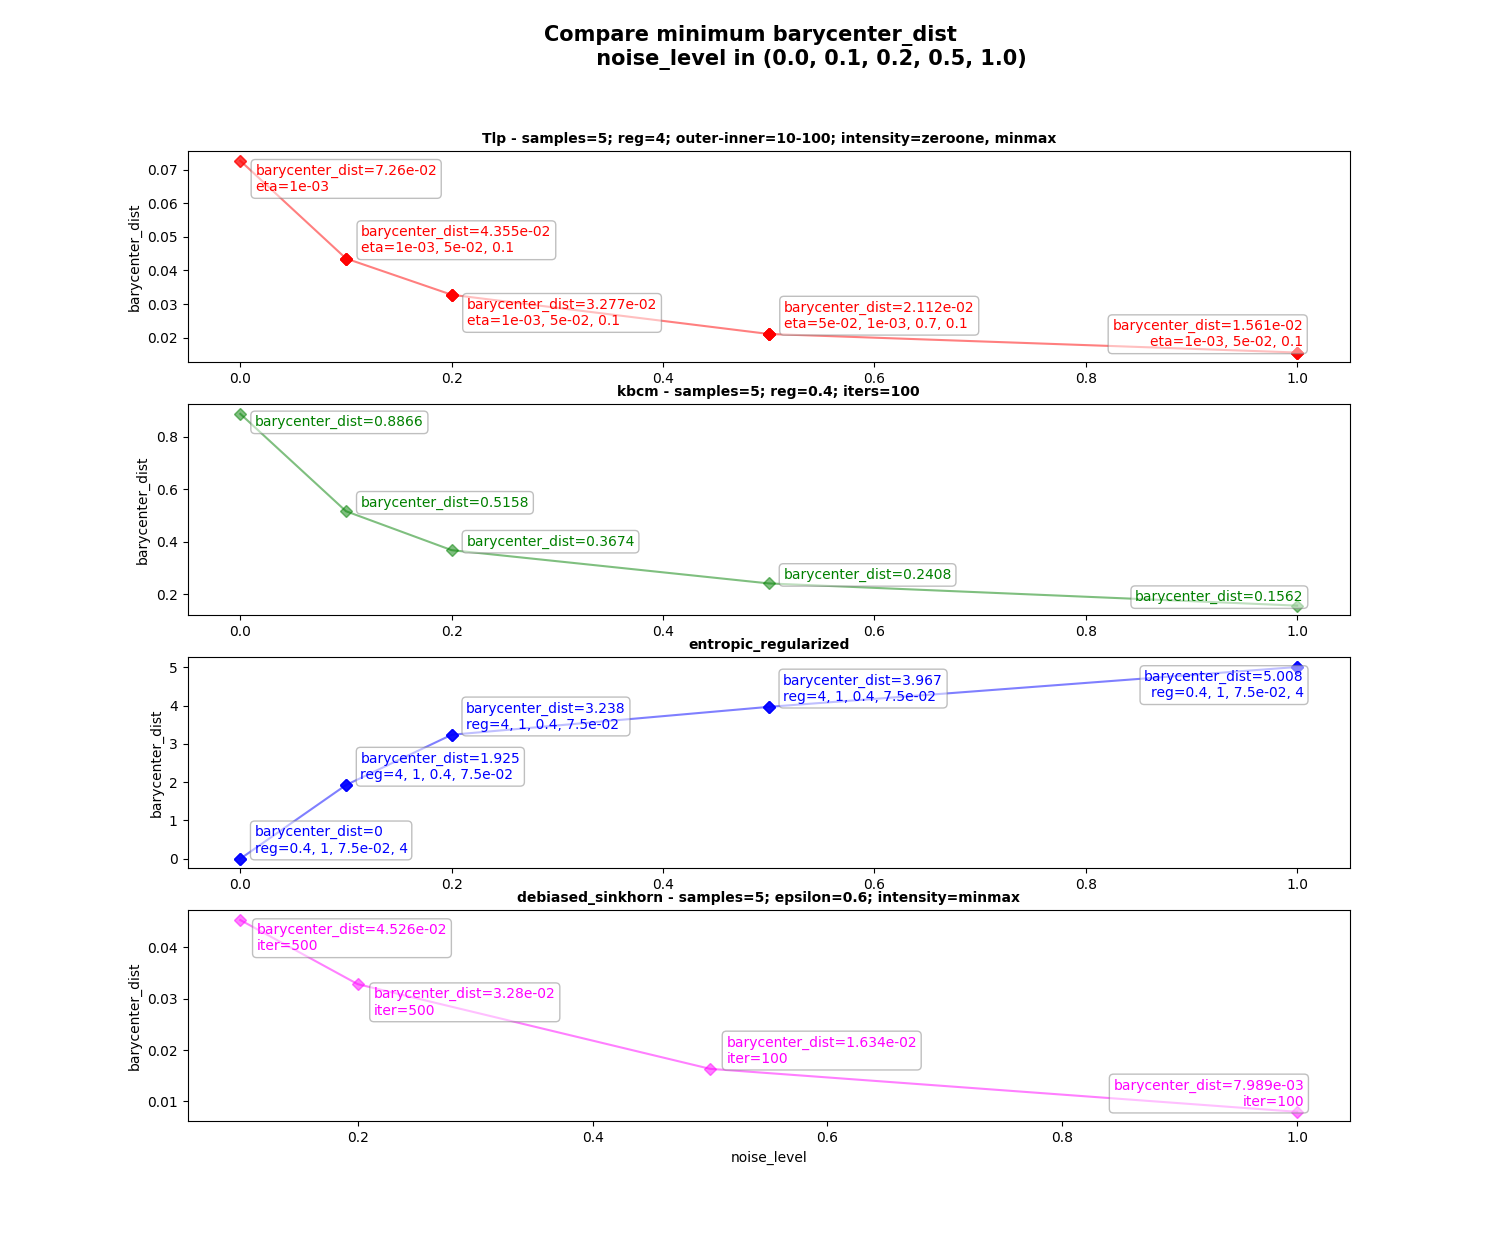
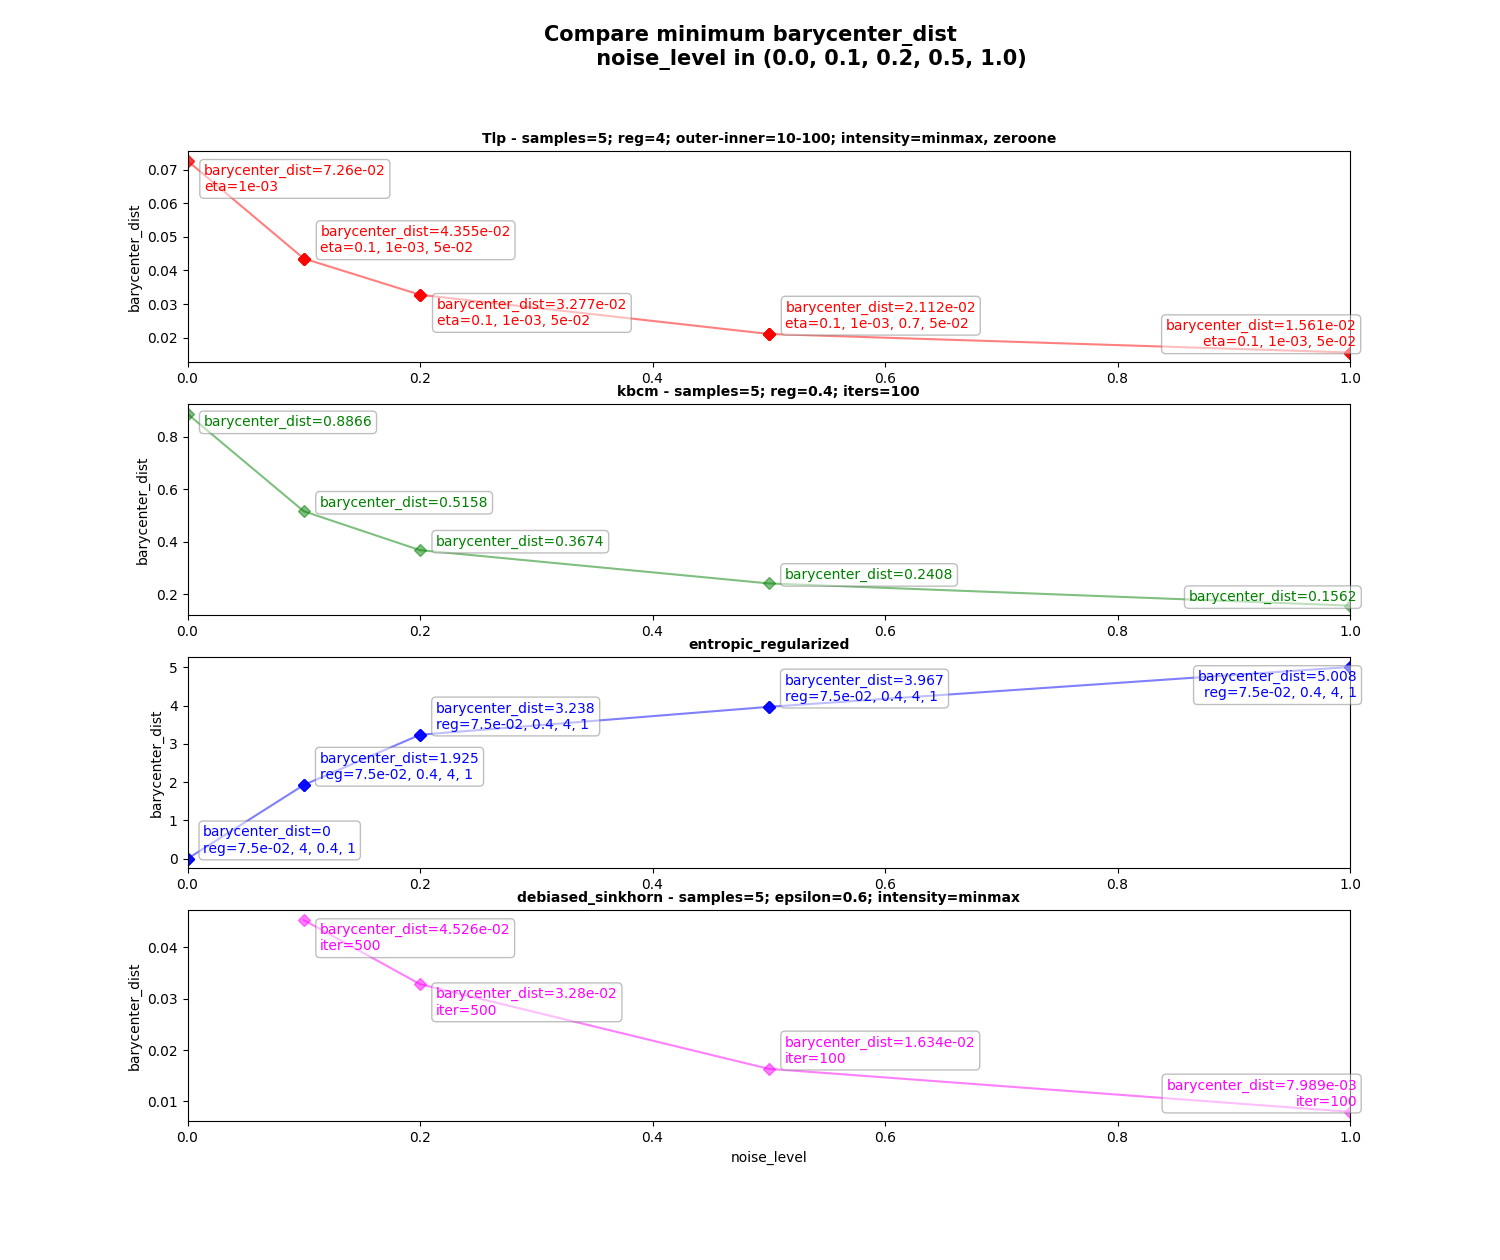
fix bugs

diff --git a/deliverable_clean/comparison_criteria/compare.py b/deliverable_clean/comparison_criteria/compare.py
@@ -381,10 +381,13 @@ def make_plot(df,
         i+=1
         adjust_text(texts, precision=1e-3)
         # plt.legend()
+        plt.xlim(left = df["noise_level"].unique().min(), right = df["noise_level"].unique().max())
         plt.title(plot_title, fontsize=10.0, fontweight='bold')
         plt.ylabel(variable)
 
+
     plt.xlabel("noise_level")
+
 
     title = "Compare {} {}".format("maximum" if min_or_max == 'max' else "minimum",variable,)
 
